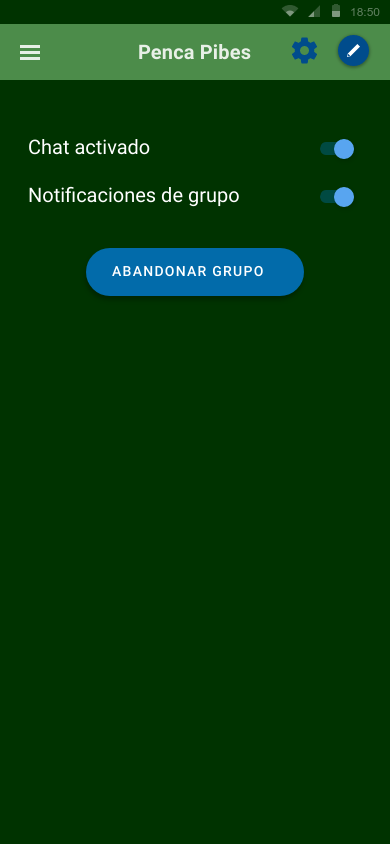
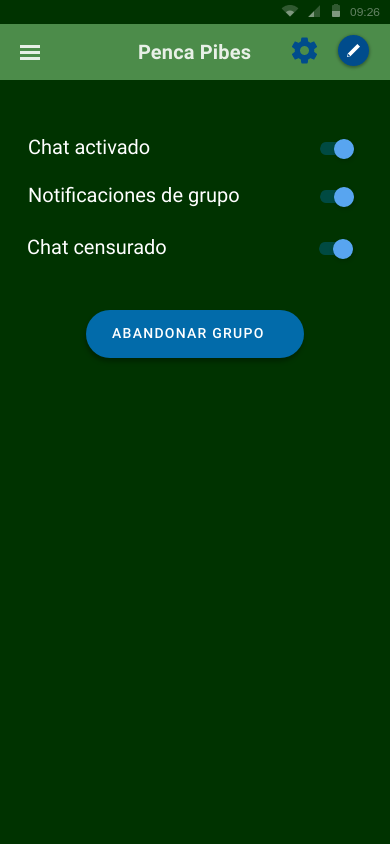
Agregamos ultimos bocetos ui

Changed region(s): [[0.0615, 0.2773, 0.8, 0.4313], [0.8, 0.2773, 0.9231, 0.3081], [0.8923, 0.0, 0.9231, 0.0308]]

diff --git a/docs/README.md b/docs/README.md
@@ -3,15 +3,16 @@ Fecha de entrega: 03-oct-2022
 
 ## Indice
 
-- 1 [Repositorio de Git](#id1)
-- 2 [Elicitación](#id2)
-- 3 [User Personas](#id3)
-- 4 [Especificación](#id4)
-- 5 [User Stories](#US)
-- 6 [Use Cases](#UC)
-- 7 [Validación/Verificación](#ValYVer)
-- 8 [Reflexión Grupal](#ReflexionGrupal)
-- 9 [Reflexión Individual](#ReflexionInd)
+1. [Repositorio de Git](#id1)
+2. [Elicitación](#id2)
+3. [User Personas](#id3)
+4. [Especificación](#id4)
+5. [User Stories](#US)
+6. [Use Cases](#UC)
+7. [Validación/Verificación](#ValYVer)
+8. [Reflexión Grupal](#ReflexionGrupal)
+9. [Reflexión Individual](#ReflexionInd)
+10. [Anexo](#anexo)
 
 <a name= "id1">
 
@@ -275,7 +276,7 @@ La calidad se divide en dos partes fundamentales:
 
 ### RNF1: Aplicación responsiva
 ---
-- **Descripción:** La aplicación debe poder ser accedida desde cualquier dispositivos móvil que contenga Android o IOS.
+- **Descripción:** La aplicación debe poder ser accedida desde cualquier dispositivos móvil que contenga Android 10 o IOS 12.
 - **Prioridad:** Alta
 
 ### RNF2: Tipografía
@@ -295,7 +296,7 @@ La calidad se divide en dos partes fundamentales:
 
 ### RNF5: Versionado Web
 ---
-- **Descripción:** El producto será realizado mediante JavaScript, CSS y HTML
+- **Descripción:** El producto será realizado mediante JavaScript 5, CSS3 y HTML5
 - **Prioridad:** Alta
 
 ### RNF6: Estabilidad del producto:
@@ -303,9 +304,9 @@ La calidad se divide en dos partes fundamentales:
 - **Descripción:** El sistema debe soportar mas de 3000 usuarios definiendo un posible resultado para el mismo partido sin una degradación del tiempo de respuesta mayor a 10 segundos.
 - **Prioridad:** Alta
 
-### RNF7: Múltiples lenguajes:
+### RNF7: Múltiples idiomas:
 ---
-- **Descripción:** El sistema debe soportar múltiples lenguajes y desarrollarse inicialmente en español e inglés
+- **Descripción:** El sistema debe soportar múltiples idiomas y desarrollarse inicialmente en español, inglés y portugués
 - **Prioridad:** Media
 
 ### RNF7: Inicio del producto:
@@ -320,7 +321,7 @@ La calidad se divide en dos partes fundamentales:
 
 ### RNF9: Consumo de recursos
 ---
-- **Descripción:** Que no consuma muchos recursos del dispositivo a la hora de procesar.
+- **Descripción:** La aplicación no puede consumir más del 10% de los recursos del dispositivo
 - **Prioridad:** Media
 
 ### RNF10: Actualización de registros
@@ -537,7 +538,7 @@ Por ende el usuario está conectado a una red WiFi.
 
 ## Use Cases
 
-### UC1: Registro de usuario
+### UC1: Registro de usuario (A determinar)
 ---
 
 **Actor:** Usuario
@@ -700,10 +701,18 @@ Por ende el usuario está conectado a una red WiFi.
 
 | Acción | Respuesta del sistema |
 | ----------- | ----------- |
-| 1. El usuario ingresa a un grupo | 2. El sistema muestra el grupo y sus secciones |
-| 3. el usuario ingresa a la sección de mensajes | 4. El sistema muestra una sección con los últimos mensajes recibidos y el historial de mensajes |
-| 5. El usuario selecciona un cuadro de texto | 6. El sistema muestra el teclado |
-| 7. El usuario envia el mensaje seleccionando la opción enviar | 8. El sistema envía el mensaje |
+| 1. El usuario selecciona la sección *Mis Grupos* | 2. El sistema muestra la sección seleccionada |
+| 3. El usuario selecciona el grupo que quiere acceder | 4. El sistema muestra la sección del grupo seleccionado | 
+| 5. El usuario selecciona la sección de chat | 6. El abre la sección de chat con todos los mensajes enviados en el grupo |
+| 7. El usuario abre el teclado y envia un mensaje | 8. El sistema envía el mensaje |
+
+| 1 | 2 |
+| ----------- | ----------- |
+| ![mis-grupos-menu](/docs/bocetosiu/menu-mis-grupos.png) | ![mis-grupos](/docs/bocetosiu/mis-grupos.png) |
+| 3 | 4 |
+| ![grupo-chat](/docs/bocetosiu/grupo-chat.png) | ![chat-abierto](/docs/bocetosiu/chat-abierto.png) |
+| 5 | 6 |
+| ![chat-teclado](/docs/bocetosiu/chat-teclado.png) | |
 
 **Cursos alternativos:** 
 
@@ -719,7 +728,11 @@ Por ende el usuario está conectado a una red WiFi.
 | Acción | Respuesta del sistema |
 | ----------- | ----------- |
 | 1. El usuario ingresa a la aplicación por primera vez | 2. El sistema muestra una ventana emergente pidiendo permisos para mandarle notificaciónes |
-| 3. el usuario ingresa que si | 4. Queda notificado el sistema de dejar al pendiente las futuras notificaciones | 
+| 3. El usuario otorga autorización | 4. El sistema queda autorizado de enviar notificaciones y las mismas quedan activadas | 
+
+| 1 | 2 |
+| ----------- | ----------- |
+| ![menu-reglas](/docs/bocetosiu/permiso-notificaciones.png) | ![reglas](/docs/bocetosiu/grupos.png) |
 
 **Cursos alternativos:** 
 
@@ -734,14 +747,16 @@ Por ende el usuario está conectado a una red WiFi.
 
 | Acción | Respuesta del sistema |
 | ----------- | ----------- |
-| 1. El usuario accede a la configuración | 2. El sistema muestra la sección de configuración | 
-| 3. El usuario hablita la opción de chat | 4. Se carga el chat y se le habilita la funcion de mandar y recibir mensajes |
+| 1. El usuario selecciona la sección *Mis Grupos* | 2. El sistema muestra la sección seleccionada |
+| 3. El usuario selecciona el grupo que quiere acceder | 4. El sistema muestra la sección del grupo seleccionado | 
+| 5. El usuario selecciona la configuración del grupo | 6. El sistema muestra la sección de configuración |
+| 7. El usuario habilita/deshabilita el chat | 8. El sistema guarda la selección del usuario |
 
-**Cursos alternativos:**
-
-| Acción | Respuesta del sistema |
+| 1 | 2 |
 | ----------- | ----------- |
-| 3.1 EL usuario deshabilita el chat | 3.2 Se borra todo acceso al mismo | 
+| ![mis-grupos-menu](/docs/bocetosiu/menu-mis-grupos.png) | ![mis-grupos](/docs/bocetosiu/mis-grupos.png) |
+| 3 | 4 |
+| ![grupo-1](/docs/bocetosiu/grupo-particular.png) | ![grupo-editar](/docs/bocetosiu/grupo-configuracion.png) |
 
 ### UC10: Acceso a la información detallada de partidos anteriores
 ---
@@ -750,13 +765,31 @@ Por ende el usuario está conectado a una red WiFi.
 
 | Acción | Respuesta del sistema |
 | ----------- | ----------- |
-| 1. El usuario entra en la sección partidos | 2. El sistema proyecta todos los partidos y sus respectivos resultados hasta el momento |
+| 1. El usuario entra en la sección *Penca Mundial* | 2. El sistema muestra la sección seleccionada |
+| 3. El usuario selecciona el grupo que quiere acceder | 4. El sistema muestra la sección del grupo seleccionado |
 
-### UC11: Deshabilitar la censura en el chat
+| 1 | 2 |
+| ----------- | ----------- |
+| ![menu](/docs/bocetosiu/menu.png) | ![grupos](/docs/bocetosiu/grupos.png) |
+| 3 | 4 |
+| ![grupoH](/docs/bocetosiu/grupoH.png) | ![partido](/docs/bocetosiu/partids-finalizados.png) |
+
+### UC11: Habilitar/Deshabilitar la censura en el chat
+
+**Actor:** Usuario
 
 | Acción | Respuesta del sistema |
 | ----------- | ----------- |
-| 1. El administrador desactiva la opción de "censura de chat" | 2. El sistema deja de correr el checkeo de las palabras | 
+| 1. El usuario selecciona la sección *Mis Grupos* | 2. El sistema muestra la sección seleccionada |
+| 3. El usuario selecciona el grupo que quiere acceder | 4. El sistema muestra la sección del grupo seleccionado | 
+| 5. El usuario selecciona la configuración del grupo | 6. El sistema muestra la sección de configuración |
+| 7. El usuario habilita/deshabilita la censura del chat | 8. El sistema guarda la selección del usuario |
+
+| 1 | 2 |
+| ----------- | ----------- |
+| ![mis-grupos-menu](/docs/bocetosiu/menu-mis-grupos.png) | ![mis-grupos](/docs/bocetosiu/mis-grupos.png) |
+| 3 | 4 |
+| ![grupo-1](/docs/bocetosiu/grupo-particular.png) | ![grupo-editar](/docs/bocetosiu/grupo-configuracion.png) |
 
 **Cursos alternativos:**
 
@@ -829,11 +862,6 @@ Nos pareció muy entretenido el tener que realizarle entrevistas a personas ajen
 
 # Detalle del trabajo individual
 
-![historia-commits-1](/media/historia-commits-1.png)
-![historia-commits-2](/media/historia-commits-2.png)
-![historia-commits-3](/media/historia-commits-3.png)
-![historia-commits-4](/media/historia-commits-4.png)
-
 A continuación daremos una reflexión individual de cada integrante del grupo:
 
 | Integrante | Reflexión |
@@ -841,5 +869,18 @@ A continuación daremos una reflexión individual de cada integrante del grupo:
 | Fernando Barcala | Me parece que el trabajo general del equipo fue bueno. Se aplicó correctamente el git-flow y todo fue utilizado desde la consola lo cual hace que el entendimiento sobre el tema sea aún mayor. Las técnicas de elicitación que utilizamos nos brindó muy buena información para crear los requerimientos. En lo personal también fue muy interesante el uso de [proto.io](https://proto.io/) para la creación de los bocetos. Es una herramienta que desconocía y da mucha facilidad a la hora de crear interfaces de usuario |
 | Ignacio Quevedo | Los avances del proyecto fueron realizados en conjunto, cada uno aportó ideas creativas y útiles para el desarrollo del mismo, noté que realizar este trabajo en grupo fue, además de divertido, muy enriquescedor a nivel intelectual dado que aprendí muchas cosas útiles y que de verdad voy a poder aplicar en el porvenir de los días. Me permitió poner en práctica los conceptos que hemos ido aprendiendo durante lo que llevamos del semestre, ejemplo las técnicas de elicitación,los comandos de git, el modelo conceptual, casos de uso, user personas,user stories, requerimientos y sus respectivos tipos (Funcionales y No Funcionales), entre otras. En lo personal me resultó muy interesante el uso de proto.io para la creación de los bocetos, me permitió ver y comprender más nuestra aplicación gracias a ella, dado que nos mostraba de forma fácil y muy intuitiva todo las ideas que fuimos aplicando en el mismo. Fue una forma rápida de poder darle vida a nuestro proyecto lo cual me pareció increible.Notamos que las entrevistas fueron medias complicadas de agendar por tema de tiempo y disponibilidad, de tanto los entrevistados como nosotros, esto nos generó el buen hábito de mejorar la organización del grupo para las futuras entrevistas, por ejemplo a la hora de hacer la validación.Los conceptos de Git/GitHub fueron de extrema útilidad para el desarrollo del proyecto, me fascina la idea de poder trabajar de forma lócal y autónoma cada uno en su máquina, pero que a su vez esa forma de trabajo pueda en tan solo un segundo tener todos los cambios y actualizaciones de forma remota, es tan solo increible. Es un hecho que al principio del proyecto cuando intentabamos pushear cosas, mas de una vez ocurrió la mala suerte de que el otro habia pusheado algo antes y por ende nuestros cambios no podian ser registrados de forma remota hasta que se arreglara el error, al principio nos tendió un poco de dificultad el poder arreglarlo, pero gracias a los conocimientos dados en clase y un par de vichadas a las grabaciones, pudimos comprenderlo, logrando que este problema pase de ser algo malo a un buen recuerdo. |
 | Gonzalo Camejo | Creo que este trabajo nos ayudó a comprender mucho mejor la forma en la cual un equipo de desarrollo funciona, aprendiendo tecnologías como git y GitHub que hoy en día son esenciales para el trabajo remoto en equipo. Me pareció realmente importante el hecho de "simular" una entrevista como si fuera real ya que nos permitió tratar con personas no comunes a nuestro núcleo con las cuales logramos interactuar y llegar a un acuerdo sobre las aplicaciones a desarrollar. Creo que la utilización de herramientas como Canva para realizar user personas y proto.io fueron de gran ayuda a la hora de generar una interfaz de usuario. Las técnicas de elicitación utilizadas como Brainstorming e ingeniería inversa fueron muy efectivas a la hora de tener un primer acercamiento a la aplicación. Personalmente sentí que logramos trabajar en equipo cubriendo las distintas áreas en conjunto verificando y discutiendo los distintos aspectos del proyecto, para lograr así una mejor solución. En un inicio creo que estábamos un poco perdidos con git/github y su funcionamiento, pero a medida que utilizábamos más git/github y nos ayudábamos unos a otros logramos comprender el funcionamiento de la herramienta. |
+
+</a>
+
+<a name = "Anexo">
+
+# Anexo
+
+A continuación se ve una historia de los commits realizados:
+
+![historia-commits-1](/media/historia-commits-1.png)
+![historia-commits-2](/media/historia-commits-2.png)
+![historia-commits-3](/media/historia-commits-3.png)
+![historia-commits-4](/media/historia-commits-4.png)
 
 </a>
